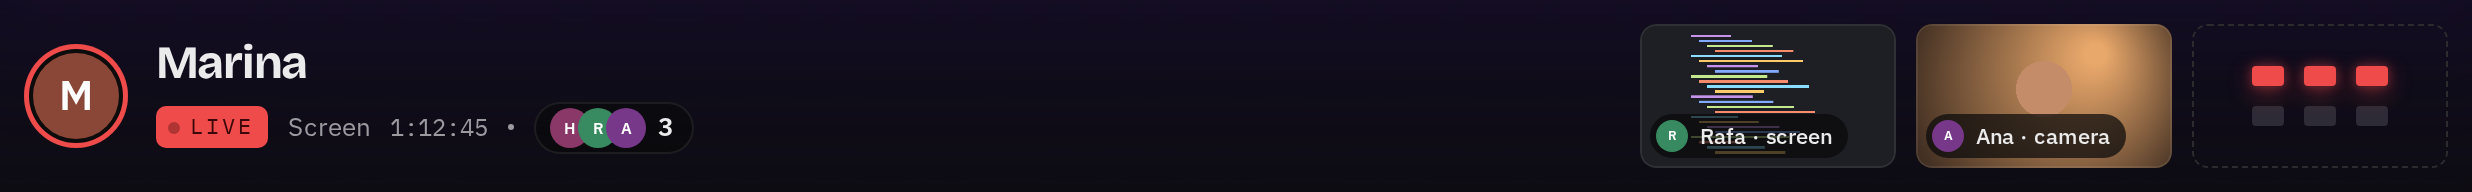
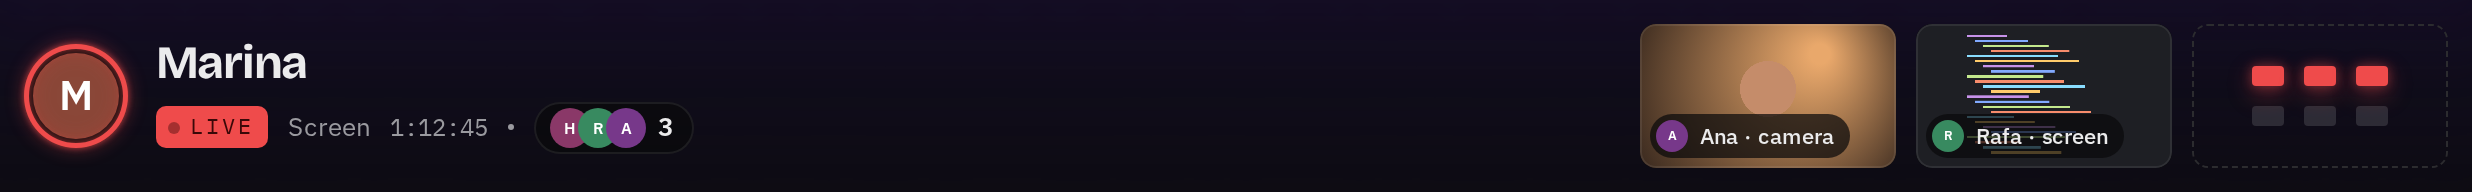
docs(web): unmute and my face's ring in the design sheet and the docs (0255)
The design sheet: Click to unmute in the sounds' place (one or the other), a
live face's glowing ring, my face green while my voice is sent, my mic without
a cue; the pictures (my face lit, the unmute pill, the info row and the people
panel with their glow). Media: how the room's sound starts. F-unmute.3 and .4
wake the controls after the click, so their pictures show the sounds back.

Changed region(s): [[0.6541, 0.125, 0.9033, 0.875], [0.0, 0.1875, 0.0623, 0.8125]]

diff --git a/app/e2e/controls/F-unmute.e2e.ts b/app/e2e/controls/F-unmute.e2e.ts
@@ -64,10 +64,13 @@ test("F-unmute.3 a click anywhere else on the page does the same", async ({ page
   await openHeld(page);
   const before = await soundStarts(page);
   const button = unmute(page);
-  await observe(page, info, { button }, async () => {
+  const sound = screenSound(page);
+  await observe(page, info, { button, sound }, async () => {
     await pointAway(page);
     await page.mouse.down();
     await page.mouse.up();
+    // The controls woken again: the sounds in the pill's place.
+    await wakeStage(page);
   });
   await expectSoundBack(page, before);
 });
@@ -76,7 +79,11 @@ test("F-unmute.4 a key does the same", async ({ page }, info) => {
   await openHeld(page);
   const before = await soundStarts(page);
   const button = unmute(page);
-  await observe(page, info, { button }, () => page.keyboard.press("Shift"));
+  const sound = screenSound(page);
+  await observe(page, info, { button, sound }, async () => {
+    await page.keyboard.press("Shift");
+    await wakeStage(page);
+  });
   await expectSoundBack(page, before);
 });
 
